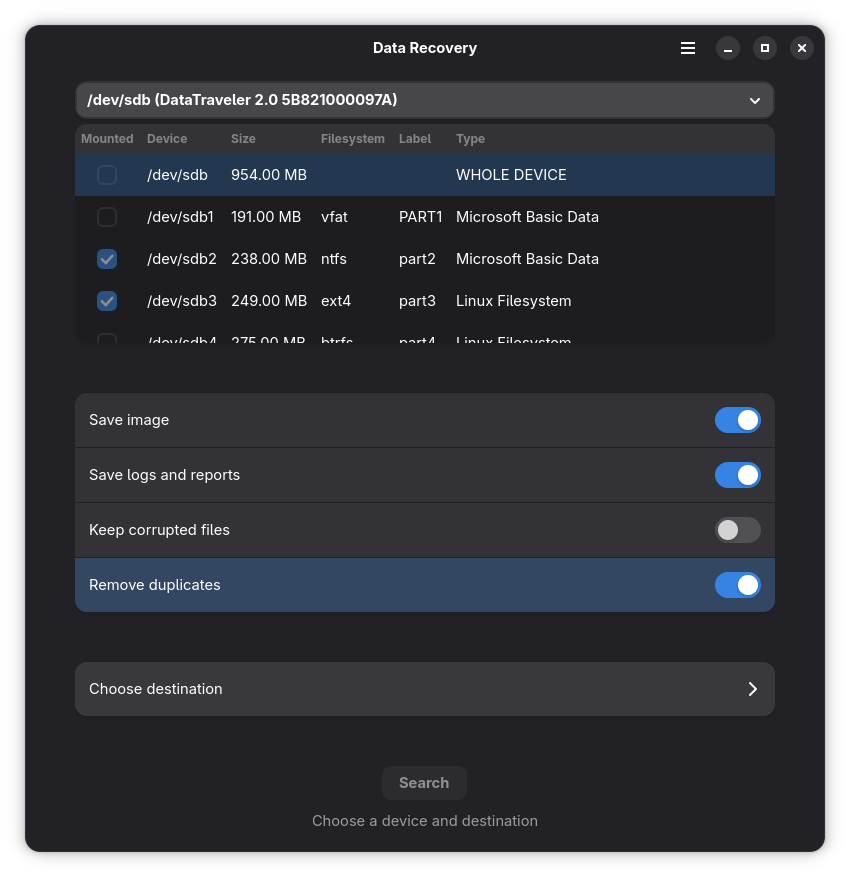
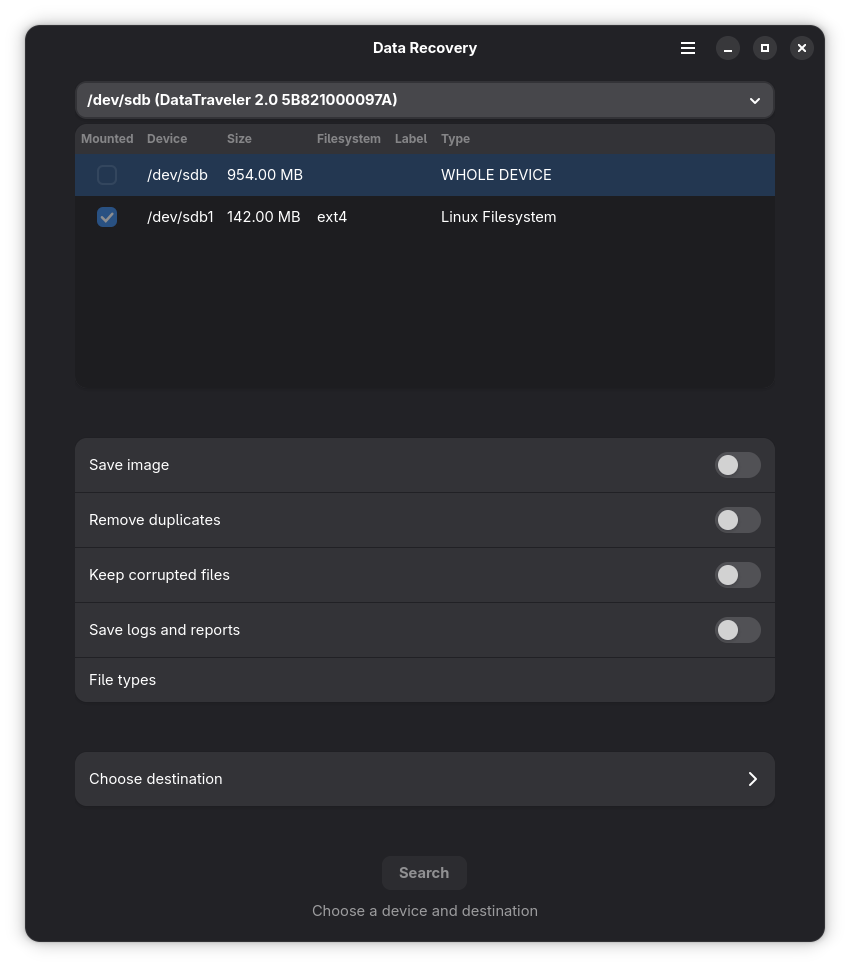
file_type dialog to diaplay differently. screenshots update and added to metainfo

diff --git a/src/file_types_dialog.py b/src/file_types_dialog.py
@@ -22,7 +22,7 @@ from gi.repository import Adw, Gtk
 from .config import FILE_TYPES
 
 @Gtk.Template(resource_path='/datarecovery/gtk/file_types.ui')
-class FileTypesDialog(Adw.Window):
+class FileTypesDialog(Adw.Dialog):
     __gtype_name__ = 'FileTypesDialog'
     
     container_box = Gtk.Template.Child()
@@ -32,7 +32,6 @@ class FileTypesDialog(Adw.Window):
     
     def __init__(self, parent_window, **kwargs):
         super().__init__(**kwargs)
-        self.set_transient_for(parent_window)
         self.category_boxes = {}
         self.file_type_rows = {}
         self.category_switches = {}
@@ -40,11 +39,6 @@ class FileTypesDialog(Adw.Window):
         self.search_entry.connect("search-changed", self.on_search_changed)
         self.select_all_button.connect("clicked", self.on_select_all)
         self.unselect_all_button.connect("clicked", self.on_unselect_all)
-        self.connect("close-request", self.on_close_request)
-    
-    def on_close_request(self, window):
-        self.hide()
-        return True
     
     def populate_file_types(self):
         for category, file_types in FILE_TYPES.items():

diff --git a/src/window.py b/src/window.py
@@ -194,4 +194,4 @@ class DatarecoveryWindow(Adw.ApplicationWindow):
     def on_file_types_row_clicked(self, row):
         if self.file_types_dialog is None:
             self.file_types_dialog = FileTypesDialog(parent_window=self)
-        self.file_types_dialog.present()
+        self.file_types_dialog.present(self)

diff --git a/CHANGELOG.md b/CHANGELOG.md
@@ -2,6 +2,22 @@
 
 ## [Unreleased]
 
+### Added
+- File type selection dialog with more categories
+- Expandable category rows with individual switches
+- Category-level switches to enable/disable all file types in a category at once
+- Search functionality to filter file types
+- Select All / Unselect All buttons for quick selection changes
+- Smart PhotoRec command generation (exclude mode when >50% selected, include mode when <50%) - needs testing
+
+### Changed
+- Reorganized file types
+- Moved FILE_TYPES configuration to config.py
+
+### Fixed
+- Empty `no_extension` directory no longer created when no files without extensions exist
+- PhotoRec `report.xml` file excluded from being moved to destination (content duplicated in photorec logs)
+
 ## [v0.1.2] - 2025-11-22
 
 ### Added
